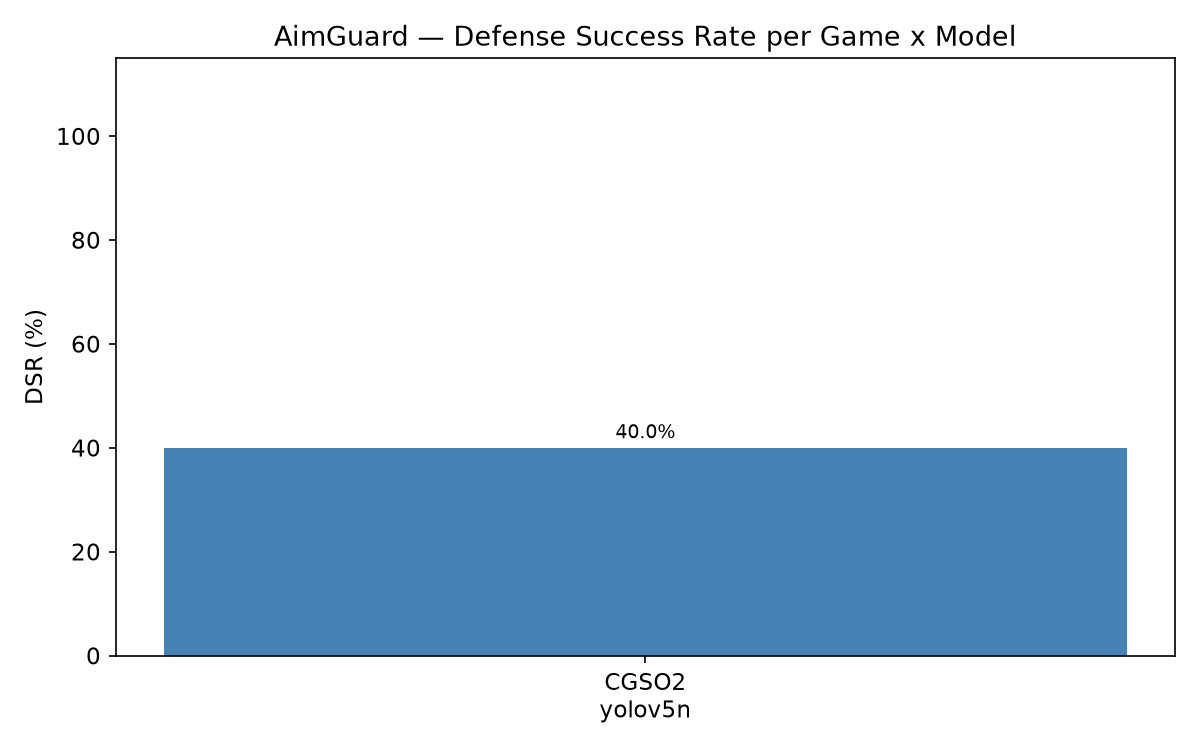
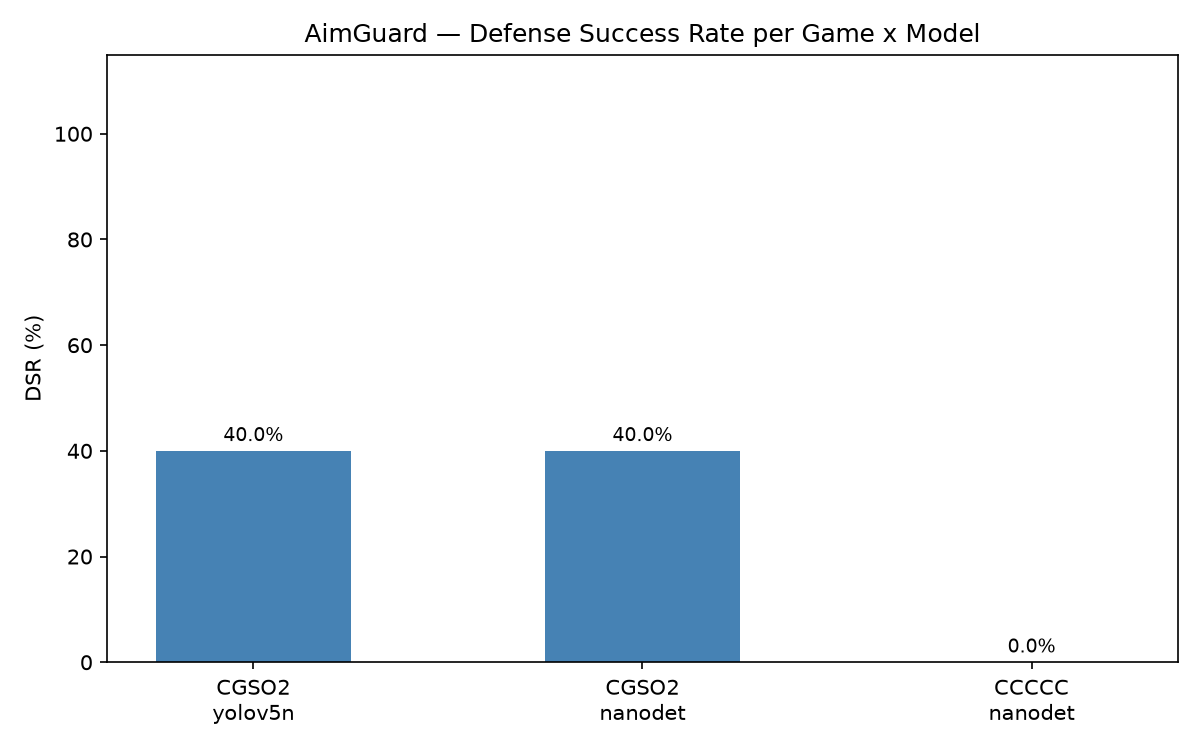
update nanodet

diff --git a/get_cloak.py b/get_cloak.py
@@ -2,6 +2,13 @@ import os, sys, time, argparse
 import warnings
 warnings.filterwarnings("ignore")
 os.environ["PYTHONWARNINGS"] = "ignore"
+
+# Force UTF-8 output so unicode chars (arrows) don't crash on Windows cp1252
+try:
+    sys.stdout.reconfigure(encoding='utf-8')
+    sys.stderr.reconfigure(encoding='utf-8')
+except Exception:
+    pass
 import numpy as np
 import torch
 import torch.nn as nn

diff --git a/train_cloak.py b/train_cloak.py
@@ -2,6 +2,13 @@ import os, sys, time, argparse
 import warnings
 warnings.filterwarnings("ignore")
 os.environ["PYTHONWARNINGS"] = "ignore"
+
+# Force UTF-8 output so unicode chars (arrows) don't crash on Windows cp1252
+try:
+    sys.stdout.reconfigure(encoding='utf-8')
+    sys.stderr.reconfigure(encoding='utf-8')
+except Exception:
+    pass
 import numpy as np
 import torch
 import torch.nn as nn

diff --git a/dashboard.py b/dashboard.py
@@ -276,6 +276,8 @@ if st.session_state.page == 'train':
                             stdout=subprocess.PIPE,
                             stderr=subprocess.STDOUT,
                             text=True,
+                            encoding="utf-8",
+                            errors="replace",
                             cwd=os.path.abspath(os.path.dirname(__file__)) or os.getcwd()
                         )
                         log_output = []
@@ -451,6 +453,8 @@ elif st.session_state.page == 'eval':
                     stdout=subprocess.PIPE,
                     stderr=subprocess.STDOUT,
                     text=True,
+                    encoding="utf-8",
+                    errors="replace",
                     bufsize=1,
                     env=_env,
                     cwd=os.path.abspath(os.path.dirname(__file__)) or os.getcwd()